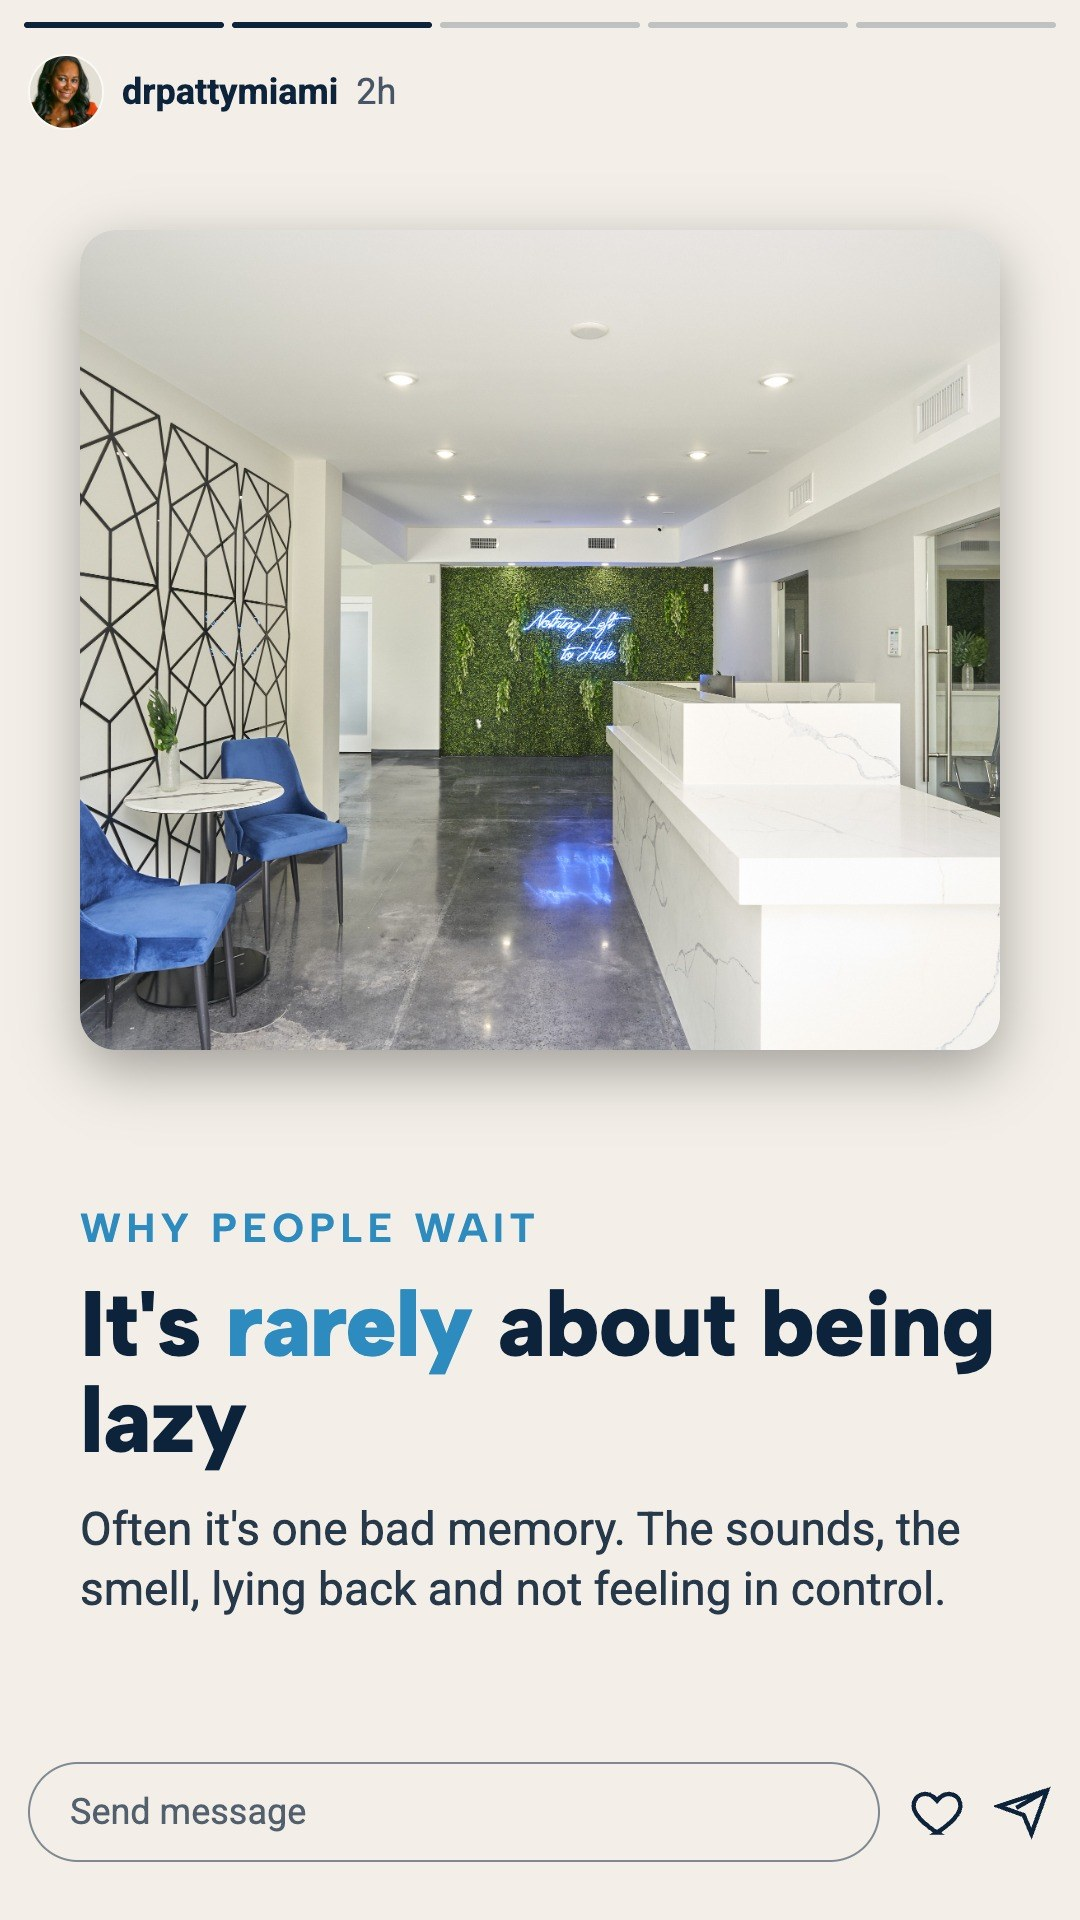
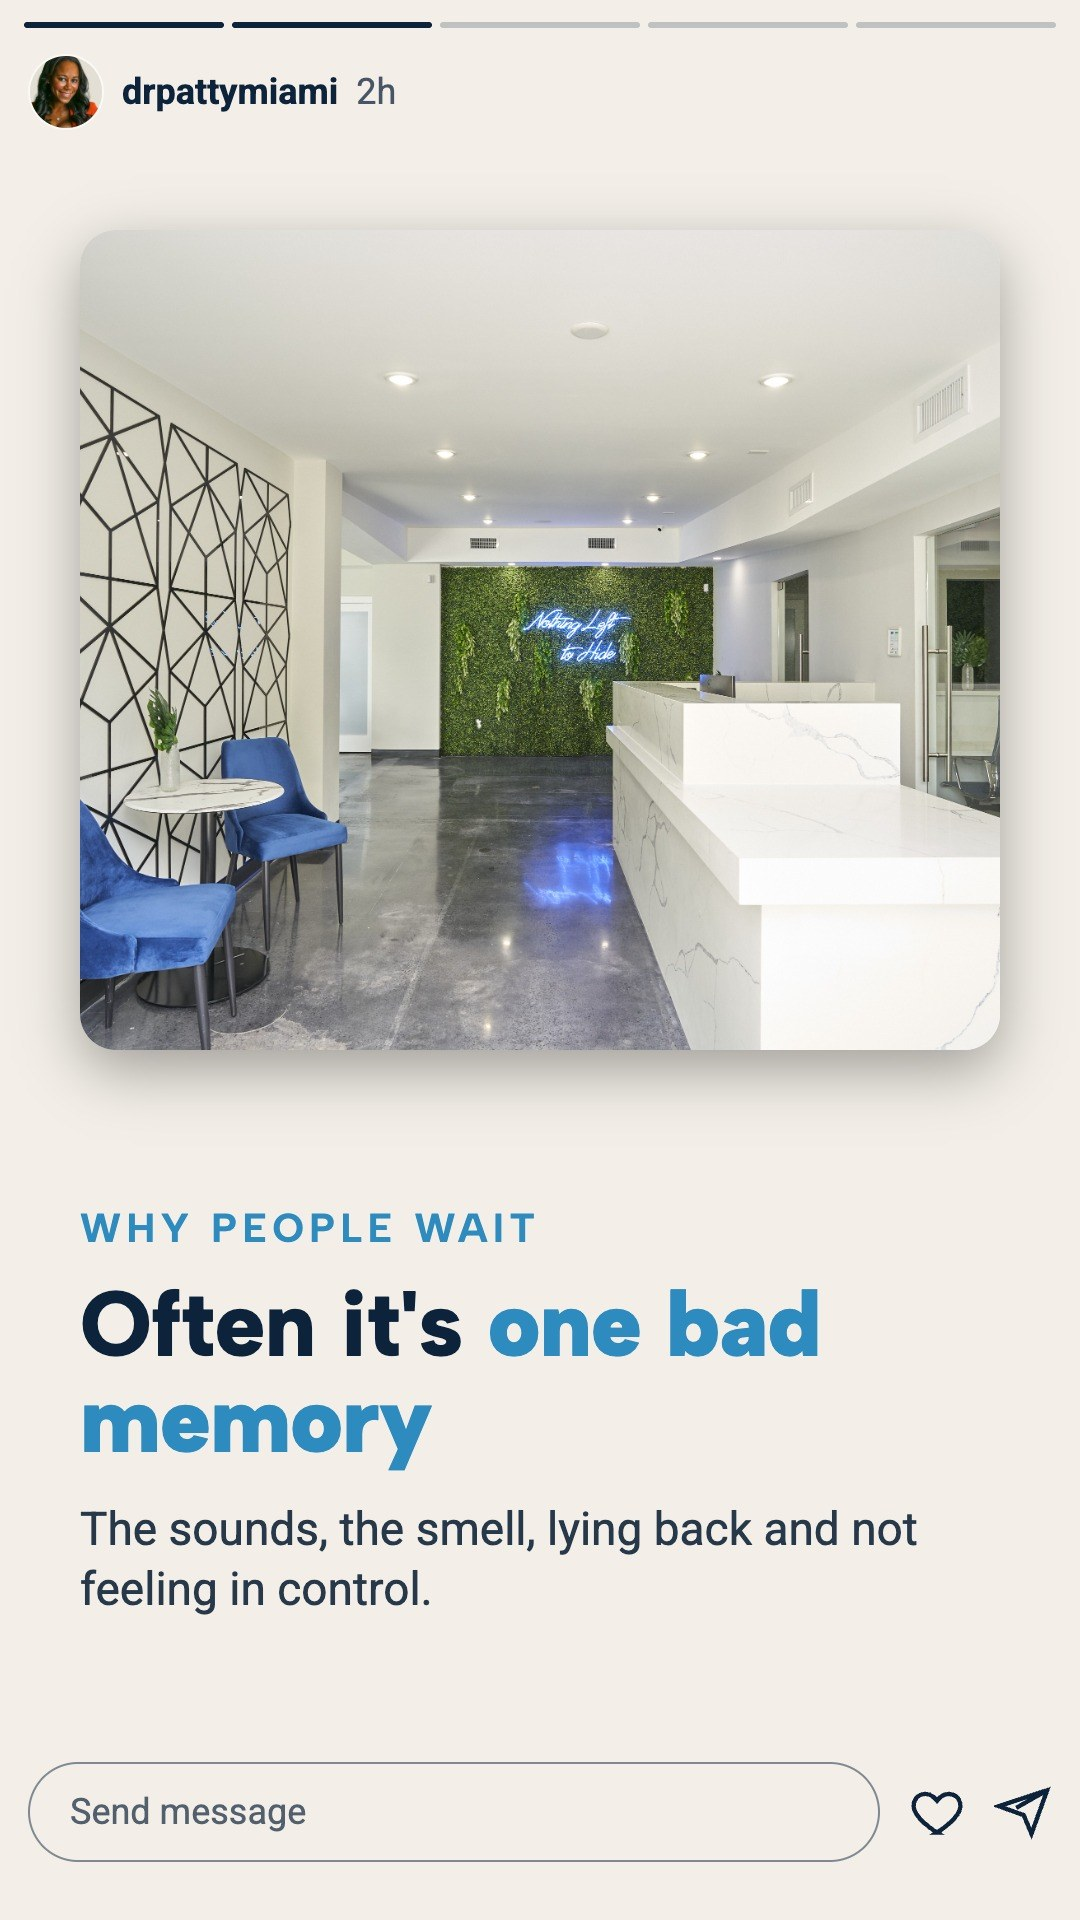
QA fixes

Changed region(s): [[0.0611, 0.6562, 0.8861, 0.8438], [0.4583, 0.6562, 0.9167, 0.7188]]

diff --git a/index.html b/index.html
@@ -107,7 +107,7 @@ footer p{margin-bottom:8px}
 <section>
   <div class="wrap">
     <h2>In short</h2>
-    <p class="lead">Patients who look you up land on <em>a page for dentists who want a suite</em>, with <em>no booking link and no post since September 2025</em>. Your reviews and #AskDrPatty videos are ready. They just aren’t here.</p>
+    <p class="lead">Patients who look you up land on <em>a page for dentists who want a suite</em>, with <em>no booking link and no post since September 2025</em>. Your 4.9 on Google isn’t on the page, and your #AskDrPatty videos sit below 12 suite posts.</p>
   </div>
 </section>
 
@@ -137,7 +137,7 @@ footer p{margin-bottom:8px}
         <figure><figcaption class="lab now">How it looks now</figcaption><a class="shot" href="img/prof_before.jpg" target="_blank"><img src="img/c_link_now.jpg" alt="Now: One link to booking" loading="lazy"></a></figure>
         <figure><figcaption class="lab todo">How it could look</figcaption><a class="shot" href="img/prof_after_link.jpg" target="_blank"><img src="img/c_link_should.jpg" alt="Could look: One link to booking" loading="lazy"></a></figure>
       </div>
-      <p class="note">There is no link at all, so a patient who is ready has to go and look for your website. One link to your contact page turns a profile visit into a booking request.</p>
+      <p class="note">There is no link at all, so a patient who is ready has to go and look for your website. One link to your contact page gives them one tap to a booking request.</p>
     </div>
     <div class="pair" id="p04">
       <div class="phead"><span class="num">04</span><h3>Contact button and address</h3></div>
@@ -233,7 +233,7 @@ footer p{margin-bottom:8px}
         <figure><figcaption class="lab now">How it looks now</figcaption><a class="shot" href="img/geo_before.jpg" target="_blank"><img src="img/c_geo_now.jpg" alt="Now: The clinic as the location" loading="lazy"></a></figure>
         <figure><figcaption class="lab todo">How it could look</figcaption><a class="shot" href="img/geo_after.jpg" target="_blank"><img src="img/c_geo_should.jpg" alt="Could look: The clinic as the location" loading="lazy"></a></figure>
       </div>
-      <p class="note">60 of 82 posts have no location and 10 say just “Miami, Florida”. The location Dr. Patty Miami Cosmetic Dentistry exists: @drpattydental used it on October 23, 2025.</p>
+      <p class="note">60 of 82 posts have no location, 10 say just “Miami, Florida”, and the “DR. PATTY MIAMI” tag was last used in December 2024. The location Dr. Patty Miami Cosmetic Dentistry exists: @drpattydental used it on October 23, 2025.</p>
     </div>
     <div class="pair" id="p16">
       <div class="phead"><span class="num">16</span><h3>A steady rhythm</h3></div>
@@ -241,7 +241,7 @@ footer p{margin-bottom:8px}
         <figure><figcaption class="lab now">How it looks now</figcaption><a class="shot" href="img/cal_now.jpg" target="_blank"><img src="img/c_rhythm_now.jpg" alt="Now: A steady rhythm" loading="lazy"></a></figure>
         <figure><figcaption class="lab todo">How it could look</figcaption><a class="shot" href="img/cal_should.jpg" target="_blank"><img src="img/c_rhythm_should.jpg" alt="Could look: A steady rhythm" loading="lazy"></a></figure>
       </div>
-      <p class="note">13 posts since June 2025, nine of them on July 14, then 13 months of silence. Three posts a week (two reels, one carousel) plus Stories most days keeps you in front of your followers.</p>
+      <p class="note">13 posts since June 2025, nine of them on one day (July 14). The last went up on September 26, 2025, and nothing since. Three posts a week (two reels, one carousel) plus Stories most days keeps you in front of your followers.</p>
     </div>
   </div>
 </section>
@@ -254,13 +254,13 @@ footer p{margin-bottom:8px}
       <h3>1. “Scared of the dentist?”</h3>
       <p class="why">For people who keep postponing treatment. It introduces IV sedation the way your website describes it and ends with a reply keyword, so the conversation starts in Direct.</p>
       <div class="gal st"><a class="gi st" href="img/x_s1_1.jpg" target="_blank"><img src="img/x_s1_1_m.jpg" alt="Story series: Scared of the dentist, frame 1"></a><a class="gi st" href="img/x_s1_2.jpg" target="_blank"><img src="img/x_s1_2_m.jpg" alt="Story series: Scared of the dentist, frame 2"></a><a class="gi st" href="img/x_s1_3.jpg" target="_blank"><img src="img/x_s1_3_m.jpg" alt="Story series: Scared of the dentist, frame 3"></a><a class="gi st" href="img/x_s1_4.jpg" target="_blank"><img src="img/x_s1_4_m.jpg" alt="Story series: Scared of the dentist, frame 4"></a><a class="gi st" href="img/x_s1_5.jpg" target="_blank"><img src="img/x_s1_5_m.jpg" alt="Story series: Scared of the dentist, frame 5"></a></div>
-      <details class="txt"><summary>Text of every frame</summary><ol><li><b>Haven't seen a dentist in years because you're scared?</b> You're not the only one. Here's how a visit can feel different.</li><li><b>It's rarely about being lazy</b> Often it's one bad memory. The sounds, the smell, lying back and not feeling in control.</li><li><b>IV sedation, if it's right for you</b> Calming medication through a small IV. You stay conscious and can respond, but feel relaxed and drowsy. Patients often have little memory of the procedure, and our team tracks your vitals throughout.</li><li><b>Bring someone to drive you home</b> The effects can linger even after you feel fine, so plan to rest. You'll get clear instructions before and after the visit.</li><li><b>Tell us what worries you</b> Reply CALM and we'll walk you through your options. Or book a consultation.</li></ol></details>
+      <details class="txt"><summary>Text of every frame</summary><ol><li><b>Haven't seen a dentist in years because you're scared?</b> You're not the only one. Here's how a visit can feel different.</li><li><b>Often it's one bad memory</b> The sounds, the smell, lying back and not feeling in control.</li><li><b>IV sedation, if it's right for you</b> Calming medication through a small IV. You stay conscious and can respond, but feel relaxed and drowsy. Patients often have little memory of the procedure, and our team tracks your vitals throughout.</li><li><b>Bring someone to drive you home</b> The effects can linger even after you feel fine, so plan to rest. You'll get clear instructions before and after the visit.</li><li><b>Tell us what worries you</b> Reply CALM and we'll walk you through your options. Or book a consultation.</li></ol></details>
     </div>
     <div class="ex">
       <h3>2. “How much does a smile makeover cost?”</h3>
       <p class="why">Your own #AskDrPatty question. It answers “it depends” honestly, shows what the cost depends on, mentions the financing you accept and sends people to the virtual consult.</p>
       <div class="gal st"><a class="gi st" href="img/x_s2_1.jpg" target="_blank"><img src="img/x_s2_1_m.jpg" alt="Story series: smile makeover cost, frame 1"></a><a class="gi st" href="img/x_s2_2.jpg" target="_blank"><img src="img/x_s2_2_m.jpg" alt="Story series: smile makeover cost, frame 2"></a><a class="gi st" href="img/x_s2_3.jpg" target="_blank"><img src="img/x_s2_3_m.jpg" alt="Story series: smile makeover cost, frame 3"></a><a class="gi st" href="img/x_s2_4.jpg" target="_blank"><img src="img/x_s2_4_m.jpg" alt="Story series: smile makeover cost, frame 4"></a><a class="gi st" href="img/x_s2_5.jpg" target="_blank"><img src="img/x_s2_5_m.jpg" alt="Story series: smile makeover cost, frame 5"></a></div>
-      <details class="txt"><summary>Text of every frame</summary><ol><li><b>How much does a smile makeover cost?</b> The honest answer starts with "it depends". Here's what it depends on.</li><li><b>Every smile is a different plan</b> The treatment, how many teeth, the materials, how complex the case is, and whether procedures are combined.</li><li><b>A personal plan and payment options</b> After looking at your smile and your goals, the team puts together your treatment plan and walks you through the payment options.</li><li><b>Monthly payments are an option</b> We accept CareCredit, Cherry, Sunbit, LendingClub and Alphaeon financing, subject to approval.</li><li><b>Send photos for a virtual consult</b> Upload your photos and fill out a short form. Our team reviews them and contacts you within 24 hours.</li></ol></details>
+      <details class="txt"><summary>Text of every frame</summary><ol><li><b>How much does a smile makeover cost?</b> The honest answer: it depends on your plan. Here's what goes into it.</li><li><b>Every smile is a different plan</b> The treatment, how many teeth, the materials, how complex the case is, and whether procedures are combined.</li><li><b>A personal plan and payment options</b> After looking at your smile and your goals, the team puts together your treatment plan and walks you through the payment options.</li><li><b>Monthly payments are an option</b> We accept CareCredit, Cherry, Sunbit, LendingClub and Alphaeon financing, subject to approval.</li><li><b>Send photos for a virtual consult</b> Upload your photos and fill out a short form. Our team reviews them and contacts you within 24 hours.</li></ol></details>
     </div>
   </div>
 </section>
@@ -268,12 +268,12 @@ footer p{margin-bottom:8px}
 <section id="carousels">
   <div class="wrap">
     <h2>Carousel examples</h2>
-    <p class="lead" style="margin-bottom:24px">Carousels are the format people save and come back to. Both open with a question a patient actually asks and end with one clear action.</p>
+    <p class="lead" style="margin-bottom:24px">Both open with a question a patient actually asks and end with one clear action.</p>
     <div class="ex">
       <h3>1. Veneers, step by step</h3>
       <p class="why">Opens with your own #AskDrPatty question and your answer, then walks through the consult, planning, materials, preparation and the first days.</p>
       <div class="gal ca"><a class="gi ca" href="img/x_c1_1.jpg" target="_blank"><img src="img/x_c1_1_m.jpg" alt="Carousel: veneers step by step, frame 1"></a><a class="gi ca" href="img/x_c1_2.jpg" target="_blank"><img src="img/x_c1_2_m.jpg" alt="Carousel: veneers step by step, frame 2"></a><a class="gi ca" href="img/x_c1_3.jpg" target="_blank"><img src="img/x_c1_3_m.jpg" alt="Carousel: veneers step by step, frame 3"></a><a class="gi ca" href="img/x_c1_4.jpg" target="_blank"><img src="img/x_c1_4_m.jpg" alt="Carousel: veneers step by step, frame 4"></a><a class="gi ca" href="img/x_c1_5.jpg" target="_blank"><img src="img/x_c1_5_m.jpg" alt="Carousel: veneers step by step, frame 5"></a><a class="gi ca" href="img/x_c1_6.jpg" target="_blank"><img src="img/x_c1_6_m.jpg" alt="Carousel: veneers step by step, frame 6"></a><a class="gi ca" href="img/x_c1_7.jpg" target="_blank"><img src="img/x_c1_7_m.jpg" alt="Carousel: veneers step by step, frame 7"></a></div>
-      <details class="txt"><summary>Text of every frame</summary><ol><li><b>"If I get veneers, will you take my teeth out?"</b> Dr. Patty's answer: "Absolutely not." Here's what actually happens.</li><li><b>The consult</b> We check your teeth, gums and bite, and look at your whole face. Then we talk about what you want to change.</li><li><b>The plan</b> Digital imaging and smile planning. Shape and shade are planned to complement your natural features.</li><li><b>Porcelain or composite</b> Porcelain: custom-made, natural translucency, resists stains. Composite: tooth-colored resin, may be more affordable. The right choice depends on your goals, lifestyle, budget and how long you want them to last.</li><li><b>Preparing the teeth, only if needed</b> Some teeth need a thin layer of enamel reshaped first, under local anesthesia. That can't be undone, so ask whether a minimal-prep option fits you.</li><li><b>Placement and the first days</b> Once your custom veneers are ready, they're placed precisely. Mild sensitivity for a few days can happen as your mouth adjusts. If it doesn't settle, call us.</li><li><b>Book a consultation</b> Link in bio. Or send photos for a virtual consult: the team gets back to you within 24 hours.</li></ol></details>
+      <details class="txt"><summary>Text of every frame</summary><ol><li><b>"If I get veneers, will you take my teeth out?"</b> Dr. Patty's answer: "Absolutely not." Here's what actually happens.</li><li><b>The consult</b> We check your teeth, gums and bite, and look at your whole face. Then we talk about what you want to change.</li><li><b>The plan</b> Digital imaging and smile planning. Shape and shade are planned to complement your natural features.</li><li><b>Porcelain or composite</b> Porcelain: custom-made, natural translucency, resists stains. Composite: tooth-colored resin, may be more affordable. The right choice depends on your goals, lifestyle, budget and how long you want them to last.</li><li><b>Preparing the teeth, only if needed</b> When teeth need preparing, local anesthesia or other comfort options can be used. Some patients qualify for minimal-prep veneers, so ask about it at your consult.</li><li><b>Placement and the first days</b> Once your custom veneers are ready, they're placed precisely. Mild sensitivity for a few days can happen as your mouth adjusts. If it doesn't settle, call us.</li><li><b>Book a consultation</b> Link in bio. Or send photos for a virtual consult: the team gets back to you within 24 hours.</li></ol></details>
     </div>
     <div class="ex">
       <h3>2. Caring for veneers</h3>
@@ -289,9 +289,9 @@ footer p{margin-bottom:8px}
     <h2>What already works</h2>
     <ul class="clean">
       <li><b>A real reputation.</b> 4.9 on Google from 682 reviews, and the reviews on your website name your team (Lala, Susy, Rudy). That’s the proof patients look for.</li>
-      <li><b>A format with your voice.</b> In 2023 you recorded 12 #AskDrPatty videos answering patient questions on camera. It’s the best base for reels; it only needs the question on screen and subtitles.</li>
+      <li><b>A format with your voice.</b> In 2023 you posted 12 #AskDrPatty videos (nine different questions) answering patients on camera. It’s the best base for reels; it only needs the question on screen and subtitles.</li>
       <li><b>People respond to you.</b> Your four most-liked posts are about you and the office: the café and bar you built (459 likes), the hiring expo (426), Proud Mom (137) and the story of the Miami building (97).</li>
-      <li><b>Material most practices don’t have.</b> A professional photo shoot of the office, TV features you’ve posted about (Good Morning America, CBS Miami, Local 10), five financing options and a virtual consult on your website.</li>
+      <li><b>Material that’s already yours.</b> A professional photo shoot of the office, TV features you’ve posted about (Good Morning America, CBS Miami, Local 10), five financing options and a virtual consult on your website.</li>
     </ul>
   </div>
 </section>
@@ -310,7 +310,7 @@ footer p{margin-bottom:8px}
       <div><b>8</b><span>Story series a month, up to 5 frames each</span></div>
       <div><b>Weekly</b><span>count of booking requests that come in through Direct and the link</span></div>
     </div>
-    <div class="callout"><b>How we measure.</b> The goal is booked consultations from Instagram. Each week I track link taps, Direct conversations about booking and how many of them turn into appointments with your front desk. Each reel is planned around one question a patient would forward to a friend: Instagram’s head Adam Mosseri names sends among the top signals for reaching people who don’t follow you yet (<a href="https://www.instagram.com/p/DFFyRp-pINJ/">source</a>). Reels bring new people; carousels get saved and build trust (<a href="https://buffer.com/resources/instagram-reach-engagement-analysis/">Buffer</a>).</div>
+    <div class="callout"><b>How we measure.</b> The goal is booked consultations from Instagram. Each week I track link taps, Direct conversations about booking and how many of them turn into appointments with your front desk. Each reel is planned around one question a patient would forward to a friend: Instagram’s head Adam Mosseri names sends among the top signals for reaching people who don’t follow you yet (<a href="https://www.instagram.com/p/DFFyRp-pINJ/">source</a>). Reels reach more people; carousels get more engagement (<a href="https://buffer.com/resources/instagram-reach-engagement-analysis/">Buffer</a>).</div>
     <div class="callout"><b>Your time:</b> one filming session a month, up to 90 minutes, and up to 15 minutes a week to approve posts.<br><b>Who I am:</b> I’ve worked in social media marketing for 3 years. I run Instagram for two dental clinics: content plans, scripts for talking reels, editing, Story series and a weekly count of bookings that come in through Direct. I also run Instagram for a Shopify agency and for a makeup brush brand selling in Italy and Spain.</div>
   </div>
 </section>
@@ -336,8 +336,8 @@ footer p{margin-bottom:8px}
 
 <footer>
   <div class="wrap">
-    <p>Data: public pages @drpattymiami and @drpattydental, viewed on October 31, 2026 from a regular Instagram account. Post counts cover all 82 posts on @drpattymiami. Likes and comments are public counters; reach and saves are not public. Google rating checked on Google Maps on October 31, 2026; the review count is from Google Maps the same day. Website facts are from drpattymiami.com (contact, virtual consult, financing, veneers and IV sedation pages). The 13 posts since June 2025 have a median of 3 likes and 1 comment, (likes + comments) / followers = 0.13%. I don’t compare that with an industry average: with almost no posts for patients, it wouldn’t tell you much.</p>
-    <p>“How it could look” is your real page with one element changed. Tiles, covers, highlights and the avatar are made from your own photos (the photo shoot on your website and your posts); the review quote is a Google review shown on your website. The calendar on the right is a plan, not a fact. Story and carousel examples follow the wording on your website; the final medical wording is yours to approve.</p>
+    <p>Data: public pages @drpattymiami and @drpattydental, viewed on October 31, 2026 from a regular Instagram account. Post counts cover all 82 posts on @drpattymiami. Likes and comments are public counters; reach and saves are not public. Google rating checked on Google Maps on October 31, 2026; the review count (682) is from a Google Maps check the same day. Website facts are from drpattymiami.com (home, contact, virtual consult, financing, veneers and IV sedation pages). The 13 posts since June 2025 have a median of 3 likes and 1 comment; per post, (likes + comments) / followers has a median of 0.13%. I don’t compare that with an industry average: with almost no posts for patients, it wouldn’t tell you much.</p>
+    <p>“How it could look” is your real page with one element changed. Tiles, covers, highlights and the avatar are made from your own photos (the photo shoot on your website and your posts); the review quote is a Google review shown on your website. The calendar in pair 16 is a plan, not a fact. Story and carousel examples use the wording on your website where it exists; the tips in “Caring for veneers” are standard aftercare advice. The final medical wording is yours to approve.</p>
   </div>
 </footer>
 
